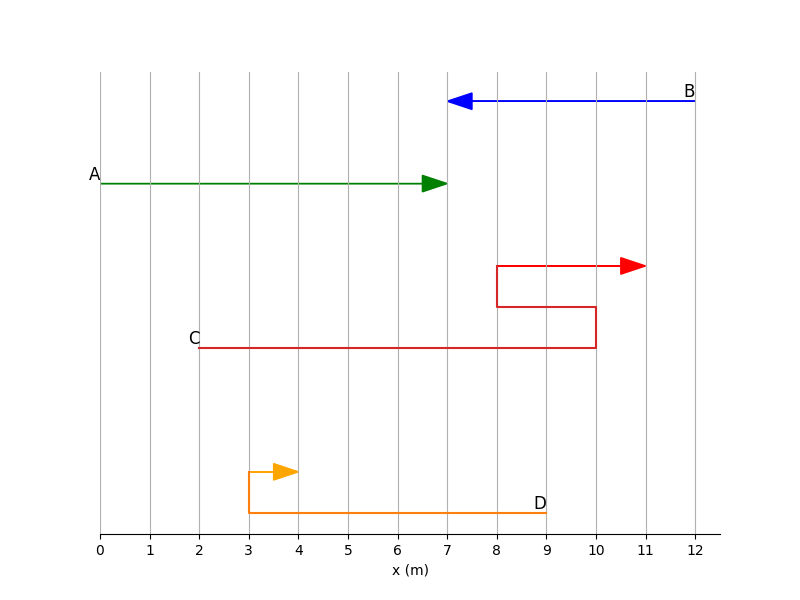
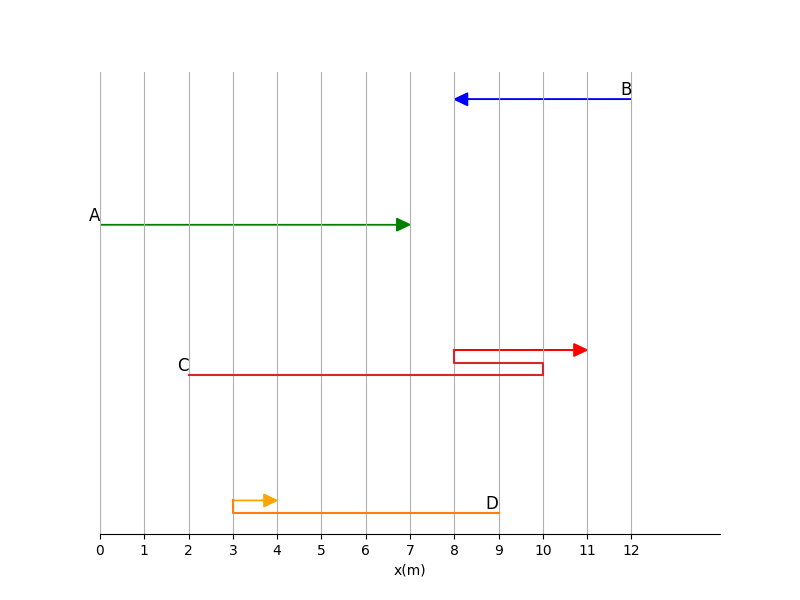
Move plotting logic to core, separate parser to a module in core

diff --git a/Questions/core/plot/plot_1d_line.py b/Questions/core/plot/plot_1d_line.py
@@ -1,0 +1,148 @@
+import matplotlib.pyplot as plt
+from dataclasses import dataclass
+
+class PlotConstant:
+    head_width = 0.1
+    head_length = 0.3
+
+@dataclass
+class _InternalLine:
+    x_points : list[float]
+    y_points : list[float]
+    color : str
+    label : str
+    linestyle : str = "-"
+
+class Plot1DLine:
+    '''
+        Plot lines in 1D axis and automatically added U-turn for 1D line
+    '''
+    _lines : list[_InternalLine] = None
+    _color_options : list[str] = ["red", "blue", "orange", "green", "black", "yellow", "purple"]
+    _min_point : float = 1000000.0
+    _max_point : float = -1000000
+
+    def __init__(self):
+        self._lines = []
+        self._vertical_start = 1
+    
+    def _get_auto_color(self):
+        return self._color_options.pop()
+
+    def add_line(self, points : list[float], label : str, color : str = "auto"):
+        assert(len(points) > 0)
+        vert_point = self._vertical_start
+        if color == "auto":
+            color = self._get_auto_color()
+
+        line = _InternalLine([], [], color, label)
+
+        direction = 0   # 0 : not set, -1: to left, +1: to right
+
+        for idx, point in enumerate(points):
+            self._min_point = min(point, self._min_point)
+            self._max_point = max(point, self._max_point)
+            if idx == 0:
+                line.x_points.append(point)
+                line.y_points.append(vert_point)
+                continue
+            prev_point = points[idx - 1]
+            if prev_point == point:
+                # Same point, ignore
+                continue
+            if direction == 0:
+                # direction is not set
+                if point - prev_point > 0:
+                    direction = 1
+                else:
+                    direction = -1
+                line.x_points.append(point)
+                line.y_points.append(vert_point)
+                continue
+            
+            if direction * (point - prev_point) > 0:
+                # same direction
+                line.x_points.append(point)
+                line.y_points.append(vert_point)
+            else:
+                # direction is not the same, expect U-Turn
+                direction = -direction
+                # draw vertical line for u-turn
+                vert_point += 0.1
+                line.x_points.append(prev_point)
+                line.y_points.append(vert_point)
+                # draw line
+                line.x_points.append(point)
+                line.y_points.append(vert_point)
+    
+        self._vertical_start = vert_point + 1
+        self._lines.append(line)
+    
+    def _draw_single_line(self, line : _InternalLine, ax : plt.Axes):
+        # Only has 2 elements -> only draw arrows
+        if len(line.x_points) > 2:        
+            ax.plot(line.x_points[:-1], line.y_points[:-1], color=f'tab:{line.color}', linestyle=line.linestyle, label=line.label)
+        
+        x_from = line.x_points[-2]
+        x_to = line.x_points[-1]
+        y_from = line.y_points[-2]
+        y_to = line.y_points[-1]
+
+        # Calculate dx based on direction. If to the left, the head_length should be added, to the right, shoule be substract
+        if x_to - x_from >= 0:
+            dx = x_to - x_from - PlotConstant.head_length
+        else:
+            dx = x_to - x_from + PlotConstant.head_length
+
+        dy = y_to - y_from
+
+        ax.arrow(x_from, y_from, dx, dy, 
+                 head_width=PlotConstant.head_width,    # widtth
+                 head_length=PlotConstant.head_length,  # length
+                 fc=line.color,                         # Face color
+                 ec=line.color)                         # Edge color
+        
+        ax.text(line.x_points[0], line.y_points[0], line.label, fontsize=12, ha='right', va='bottom')
+
+    def draw(self, axis_label : str, save_file_path : str):
+        '''
+            Draw the lines, label the x-axis with axis_label. 
+            Save file to save_file_path
+        '''
+        # Create the plot
+        _, ax = plt.subplots(figsize=(8, 6))
+
+        # X-axis data
+        x_ticks = range(self._min_point, self._max_point + 1, 1)
+
+        for line in self._lines:
+            self._draw_single_line(line, ax)
+
+        # Customize the plot
+        ax.set_xlabel(axis_label)
+        ax.set_xticks(x_ticks)
+        ax.set_yticks([])  # Hide y-axis ticks
+        ax.set_xlim(min(self._min_point, 0), self._max_point + 2)  # Set x-axis limits
+        ax.spines['left'].set_visible(False) # Remove left spine
+        ax.spines['top'].set_visible(False)  # Remove top spine
+        ax.spines['right'].set_visible(False) # Remove right spine
+
+        # Enable the grid
+        ax.grid(True)
+
+        plt.savefig(fname=save_file_path)
+
+if __name__ == "__main__":
+    plotter = Plot1DLine()
+
+    A_x = [0, 7]
+    B_x = [12, 8]
+    C_x = [2, 10, 8, 11]
+    D_x = [9, 3, 4]
+    
+    plotter.add_line(D_x, "D", "orange")
+    plotter.add_line(C_x, "C", "red")
+    plotter.add_line(A_x, "A", "green")
+    plotter.add_line(B_x, "B", "blue")
+
+    plotter.draw("x(m)", "temp.png")

diff --git a/Questions/core/parser/md_parser.py b/Questions/core/parser/md_parser.py
@@ -43,7 +43,7 @@ class Exercise:
     rate : Rating = Rating.Easy
     static_data : list[tuple[str, str]] = None   # tuple of file path, description
     type : ExerciseType = ExerciseType.Unknown
-    data : MultipleChoiceExercise | SimpleShortAnswerExercise | ShortAnswerWithSubQuestion = None
+    data : MultipleChoiceExercise | SimpleShortAnswerExercise = None
     
     def validate(self):
         '''
@@ -52,8 +52,6 @@ class Exercise:
         match (self.type):
             case (ExerciseType.SHORT_ANSWER):
                 assert(isinstance(self.data, SimpleShortAnswerExercise))
-            case (ExerciseType.SHORT_ANSWER_WITH_SUB_QUESTIONS):
-                assert(isinstance(self.data, ShortAnswerWithSubQuestion))
             case (ExerciseType.MULTIPLE_CHOICE):
                 assert(isinstance(self.data, MultipleChoiceExercise))
             case (ExerciseType.Unknown):
@@ -130,18 +128,22 @@ class MDParser:
     def get_exercise_type(self, question_elements : list[bs4.PageElement]):
         # Multiple choice should startswith this
         choices = ["(A)", "(B)", "(C)", "(D)"]
+        choices_match = {}
 
-        # short answers startswith (a), (b), (c), ... 
-        short_answer_sub_question_regex = re.compile(r"\([a-z]\)")
         for el in question_elements:
             if el.name == "p":
-                # Check match with regex for sub-questions
-                if short_answer_sub_question_regex.search(el.text):
-                    return ExerciseType.SHORT_ANSWER_WITH_SUB_QUESTIONS
-                
-                # Check match with multiple choice. TODO: check all 4, not 1
-                if any(el.text.startswith(choice) for choice in choices):
-                    return ExerciseType.MULTIPLE_CHOICE
+                # Check match with multiple choice. If match, set the choices_match to True
+                for choice in choices:
+                    if el.text.strip().startswith(choice):
+                        choices_match[choice] = True
+        
+        # if there is at least 1 match -> Multiple choice
+        if len(choices_match.keys()) > 0:
+            # if not enough 4 choice
+            if len(choices_match.keys()) != len(choices):
+                raise ValueError("Question is type MultipleChoice, but do not have 4 choices. Please check question:\n{}".format("\n".join(element.text for element in question_elements)))
+            else:
+                return ExerciseType.MULTIPLE_CHOICE
 
         # if no match, should be short answer
         return ExerciseType.SHORT_ANSWER
@@ -319,7 +321,7 @@ class MDParser:
 
 
 if __name__ == "__main__":
-    md_file = "../chapter-02/questions.md"
+    md_file = "../../chapter-02/questions.md"
     parser = MDParser(md_file)
     modules = parser.get_modules()
     print(modules[0].exercises)

diff --git a/Questions/chapter-02/main.py b/Questions/chapter-02/main.py
@@ -1,4 +1,29 @@
-from tool import *
+import sys
+import os
+
+sys.path.append(os.path.join(os.path.dirname(__file__), os.pardir))
+from core import Plot1DLine
+
+def get_static_folder():
+    folder = os.path.join(os.path.dirname(__file__), "static")
+    if not os.path.exists(folder):
+        os.makedirs(folder)
+    return folder
+
+def gen_image_1():
+    plotter = Plot1DLine()
+
+    A_x = [0, 7]
+    B_x = [12, 8]
+    C_x = [2, 10, 8, 11]
+    D_x = [9, 3, 4]
+    
+    plotter.add_line(D_x, "D", "orange")
+    plotter.add_line(C_x, "C", "red")
+    plotter.add_line(A_x, "A", "green")
+    plotter.add_line(B_x, "B", "blue")
+
+    plotter.draw("x(m)", os.path.join(get_static_folder(), "figure-c2-m1-e1.png"))
 
 if __name__ == "__main__":
-    gen_image_for_e1()
+    gen_image_1()

diff --git a/Questions/core/__init__.py b/Questions/core/__init__.py
@@ -1,1 +1,3 @@
-from .md_parser import Rating, ExerciseType, Exercise, SimpleShortAnswerExercise, ShortAnswerWithSubQuestion, Module, MDParser
+from .parser.md_parser import Rating, ExerciseType, Exercise, SimpleShortAnswerExercise, ShortAnswerWithSubQuestion, Module, MDParser
+
+from .plot.plot_1d_line import Plot1DLine
